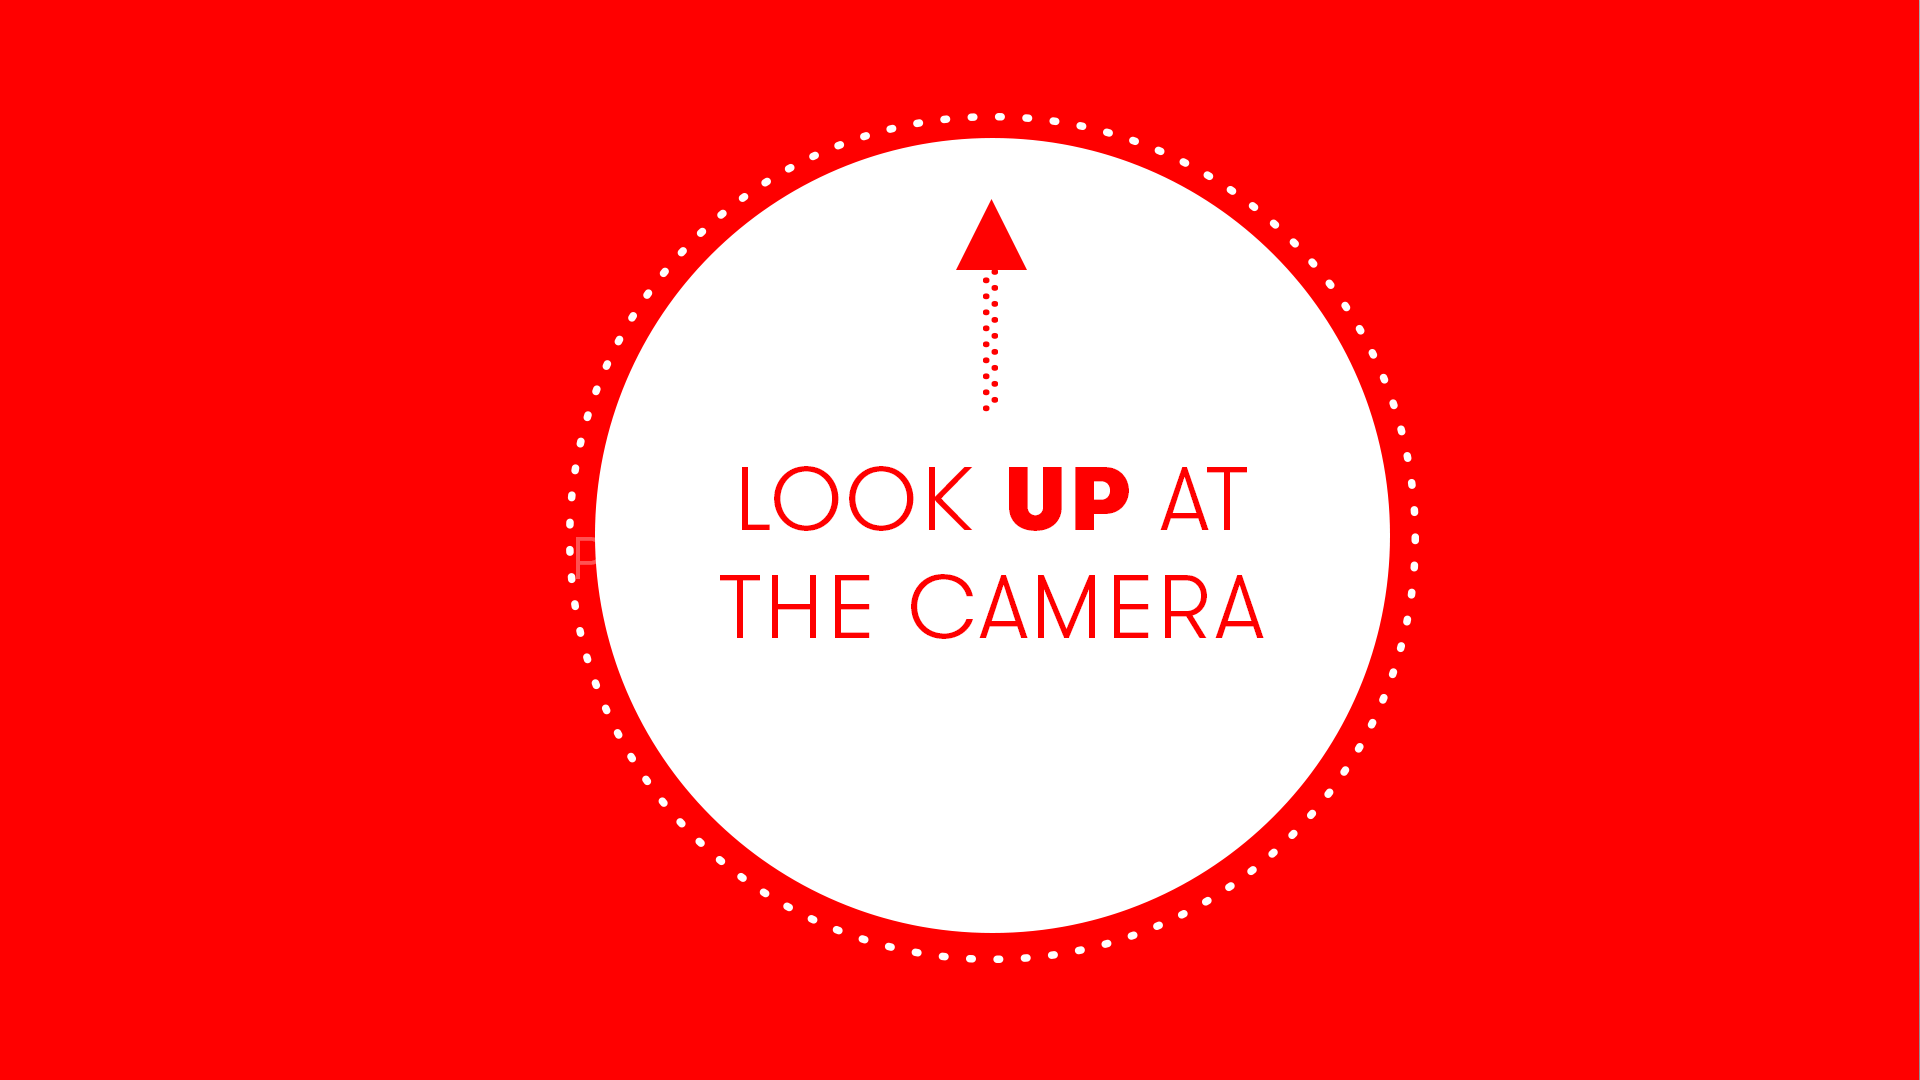
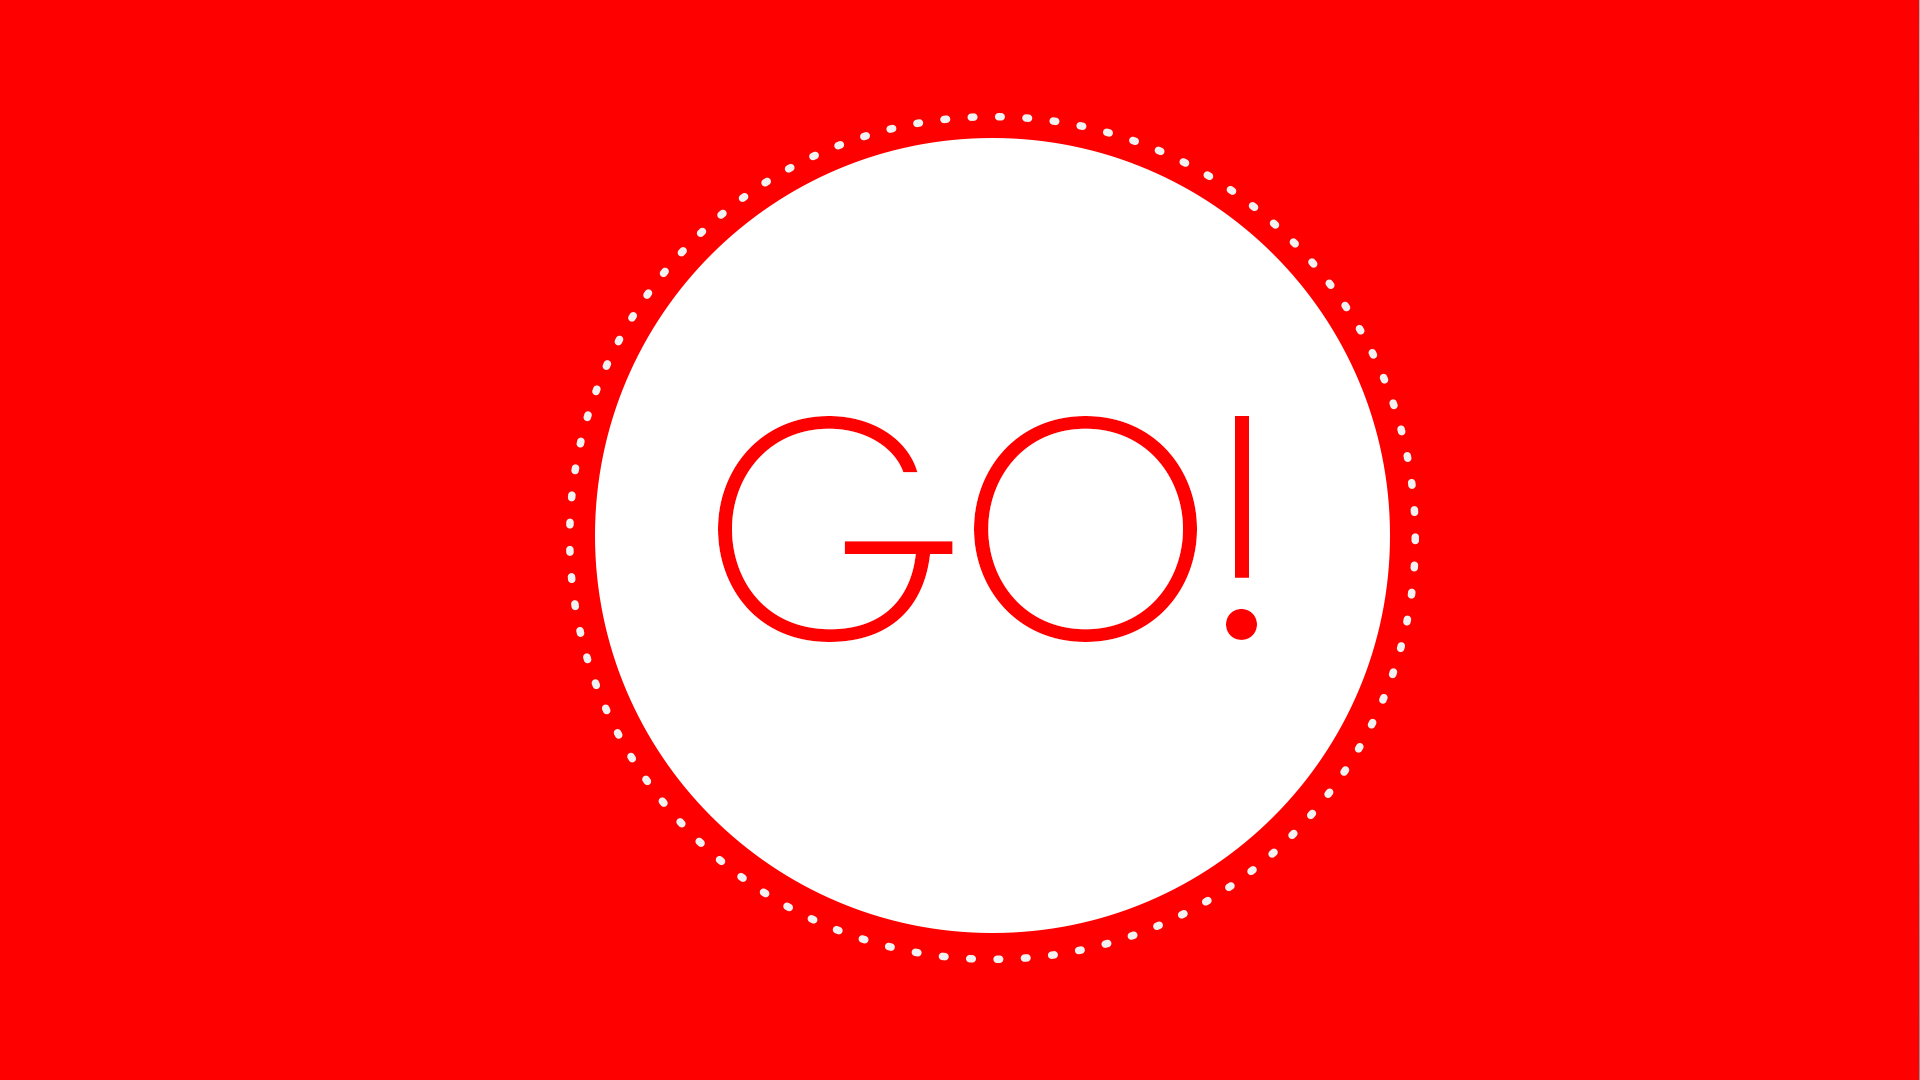
graphics updates

Changed region(s): [[0.375, 0.3667, 0.6562, 0.6111], [0.5, 0.1833, 0.5312, 0.275]]

diff --git a/public/index.css b/public/index.css
@@ -1,3 +1,7 @@
+body{
+  font-family: 'GT Walsheim';
+}
+
 .state, .countdown-screen{
   display: none;
   width: 100%;
@@ -26,8 +30,8 @@
 .countdown-screen.three{
   background-image: url('/screens/countdown-3.png');
 }
-.countdown-screen.go{
-  background-image: url('/screens/countdown-go.png');
+.countdown-screen.prep{
+  background-image: url('/screens/prep.png');
 }
 
 
@@ -52,7 +56,7 @@
   list-style-type: none;
   margin: 0;
   padding: 0;
-  width: 50%;
+  width: 75%;
   margin: auto;
   overflow:hidden;
 }
@@ -60,7 +64,8 @@
   color: #363636;
   text-align: center;
   margin: 40px 0;
-  font-size: 125%;
+  font-size: 140%;
+  font-weight: 500;
 }
 
 
@@ -84,7 +89,8 @@
   border-radius: 40px;
   text-align: center;
   padding: 20px 0px;
-  width: 80%;
+  width: 65%;
+  font-weight: 100;
   margin: auto;
   text-transform: uppercase;
 }

diff --git a/public/showcase.css b/public/showcase.css
@@ -9,12 +9,10 @@
 
 .status{
   position: absolute;
-  background-color: black;
   bottom: 0;
   height: 20px;
   color: white;
-  padding: 5px;
+  padding: 10px 30px;
   width: 100%;
   font-size: 70%;
-  background-color: rgba(0,0,0,.5);
 }
